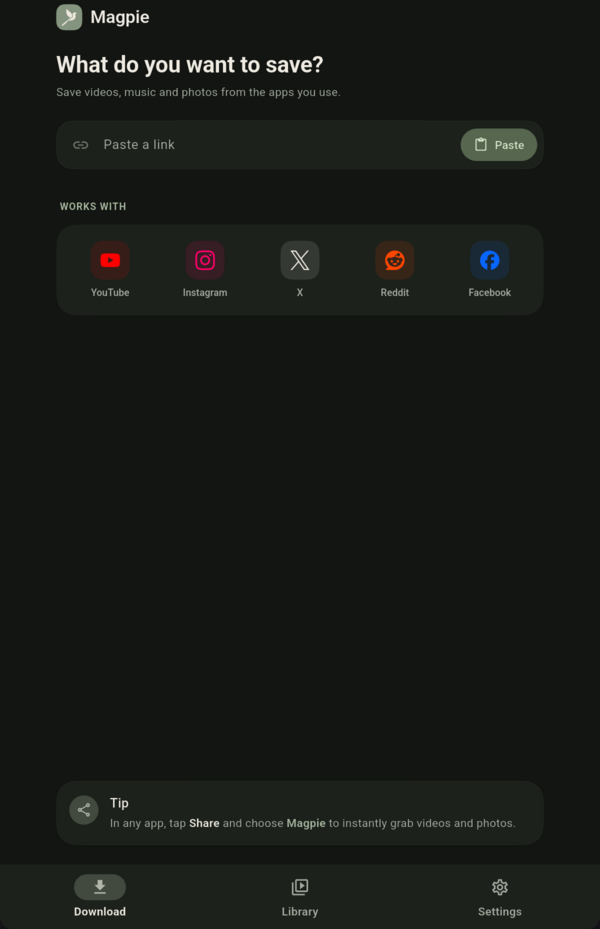
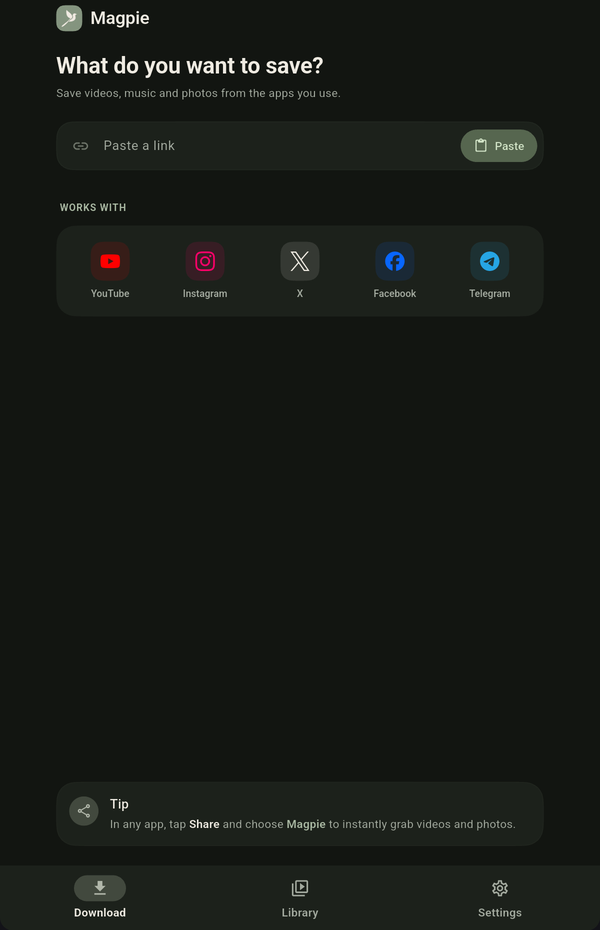
Update README screenshots and features
New screenshots of the home screen, a post's photo picker, a video's
description, the transcript sheet and Settings (NASA public-domain media).
The text drops Reddit, adds Telegram and Facebook, and lists Best available
quality, full-size photos, descriptions and captions, YouTube transcripts,
Fit for sharing and the privacy note.

diff --git a/README.md b/README.md
@@ -21,7 +21,7 @@
 ---
 
 Magpie is a free and open-source downloader for Android. Share a link from
-YouTube, Instagram, X (Twitter), Reddit or
+YouTube, Instagram, X (Twitter), Facebook, Telegram or
 [hundreds of other sites](https://github.com/yt-dlp/yt-dlp/blob/master/supportedsites.md),
 choose what you want, and Magpie saves it to your phone's `Download` folder,
 where your gallery and file manager can see it.
@@ -36,16 +36,35 @@ No account. No ads. No tracking.
 ## Screenshots
 
 <p align="center">
-  <img src="docs/screenshots/download.png" alt="Download screen: paste a link, with the supported sites listed" width="300">
-  &nbsp;&nbsp;
-  <img src="docs/screenshots/settings.png" alt="Settings: theme, font, video quality, save location and automatic updates" width="300">
+  <img src="docs/screenshots/download.png" alt="Download screen: paste a link, with the supported sites listed" width="250">
+  &nbsp;
+  <img src="docs/screenshots/photos.png" alt="A post with four photos: pick all of them or just some, saved at full size" width="250">
+  &nbsp;
+  <img src="docs/screenshots/description.png" alt="A YouTube video with its description, a Copy button and the Transcript button" width="250">
 </p>
+<p align="center">
+  <img src="docs/screenshots/transcript.png" alt="Transcript sheet: choose a language, then copy the text or save it as a text file" width="250">
+  &nbsp;
+  <img src="docs/screenshots/settings.png" alt="Settings: video quality, save location, automatic updates and the privacy note" width="250">
+</p>
+<p align="center"><sub>Photos and video shown: NASA (public domain).</sub></p>
 
 ## Features
 
 - **Share or paste**: send a link from any app's share sheet, or paste it in.
 - **Pick what you want**: video in the quality you choose, audio only, or
-  photos, including every item of an Instagram carousel.
+  photos. From a post with several photos or videos, save all of them or
+  just the ones you pick.
+- **Best quality**: choose **Best available** to get the highest quality a
+  site offers, even above 4K. Photos from X posts and public Telegram
+  channels are saved at the largest size the site serves, and a direct link
+  to an image saves the full-size file.
+- **Descriptions and captions**: read a video's description, or the caption
+  or text of an Instagram, Facebook or X post, and copy it in one tap.
+- **YouTube transcripts**: read a video's transcript in any of its caption
+  languages, copy it, or save it as a text file next to your downloads.
+- **Fit for sharing**: make a smaller copy of a saved video, sized to send
+  in a chat app.
 - **Downloads that keep going**: downloads run in the background with a
   progress notification, so you can leave the app.
 - **Tidy folders**: files are saved to `Download/Magpie/<Site>/`, or to a
@@ -57,6 +76,8 @@ No account. No ads. No tracking.
 - **Update notifications**: Magpie tells you when a new version is out and
   fetches the right APK for your phone.
 - **Your look**: light, dark or system theme, and a choice of fonts.
+- **Private**: no account, no ads, no tracking; Settings shows what stays on
+  your phone and what Magpie connects to.
 
 ## Install
 
@@ -112,7 +133,8 @@ It only connects to:
   the app.
 
 Your files stay on your phone. Magpie never asks for access to all your
-files; it saves through Android's own media storage.
+files; it saves through Android's own media storage. The app says the same
+under **Settings → About → Your privacy**.
 
 ## Built with
 
